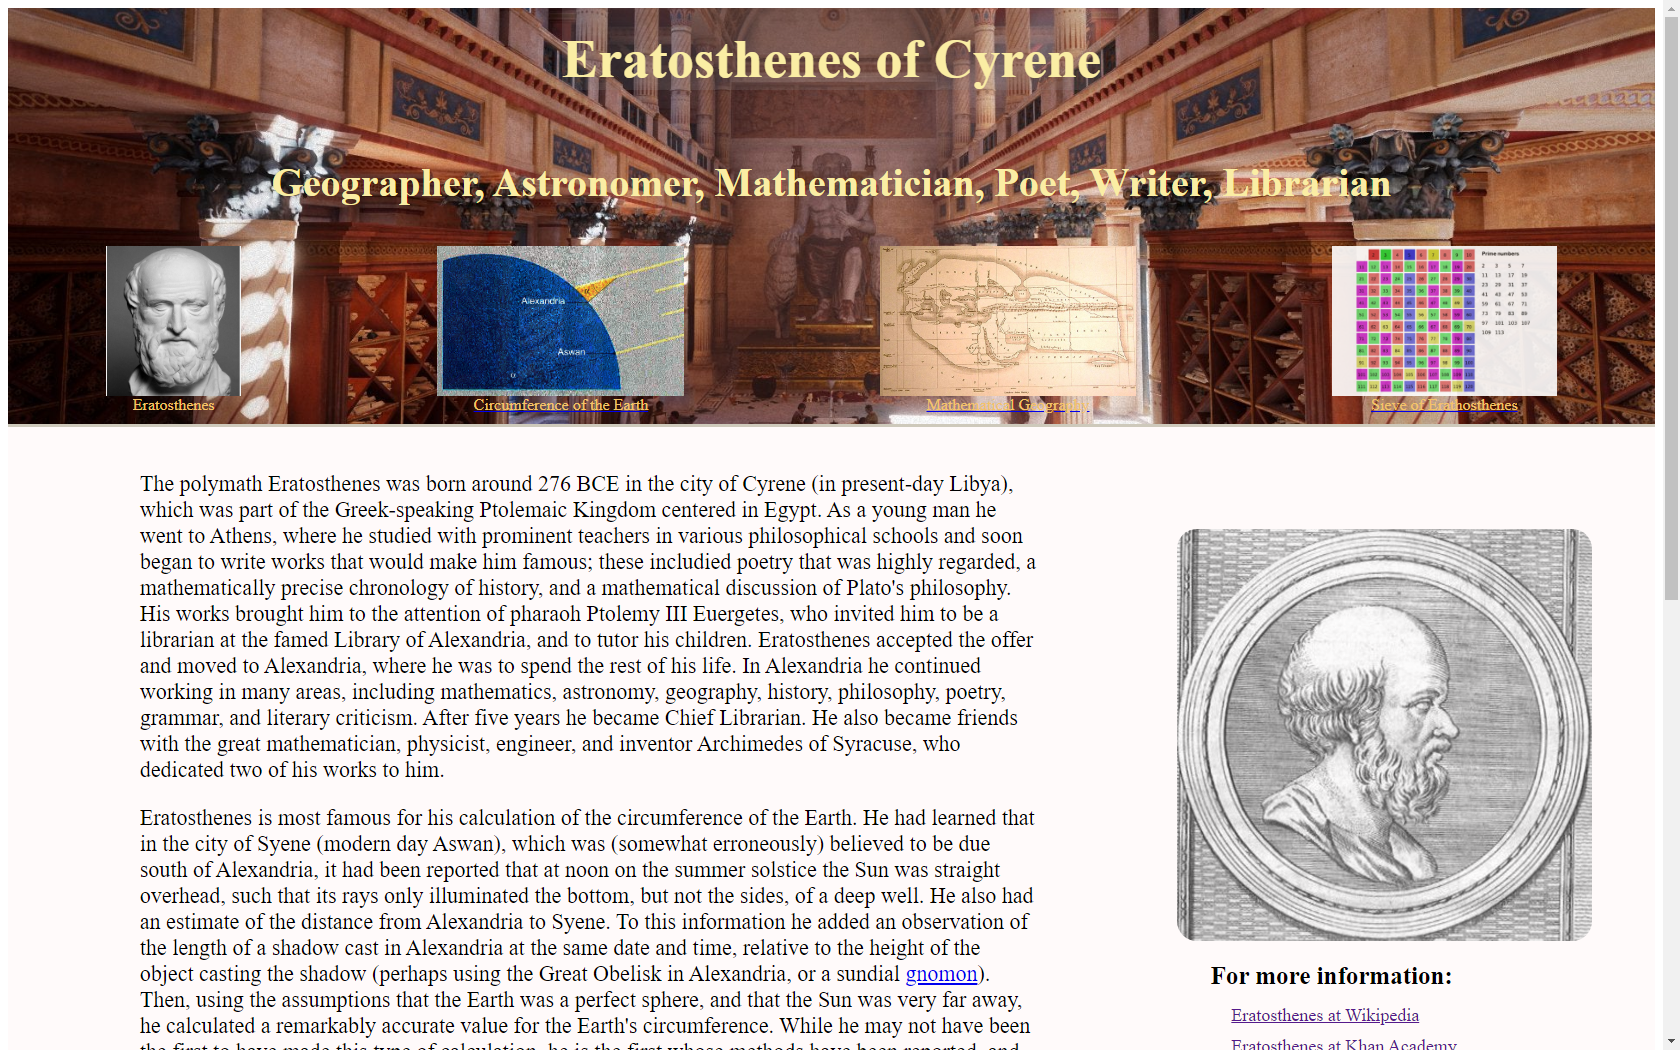
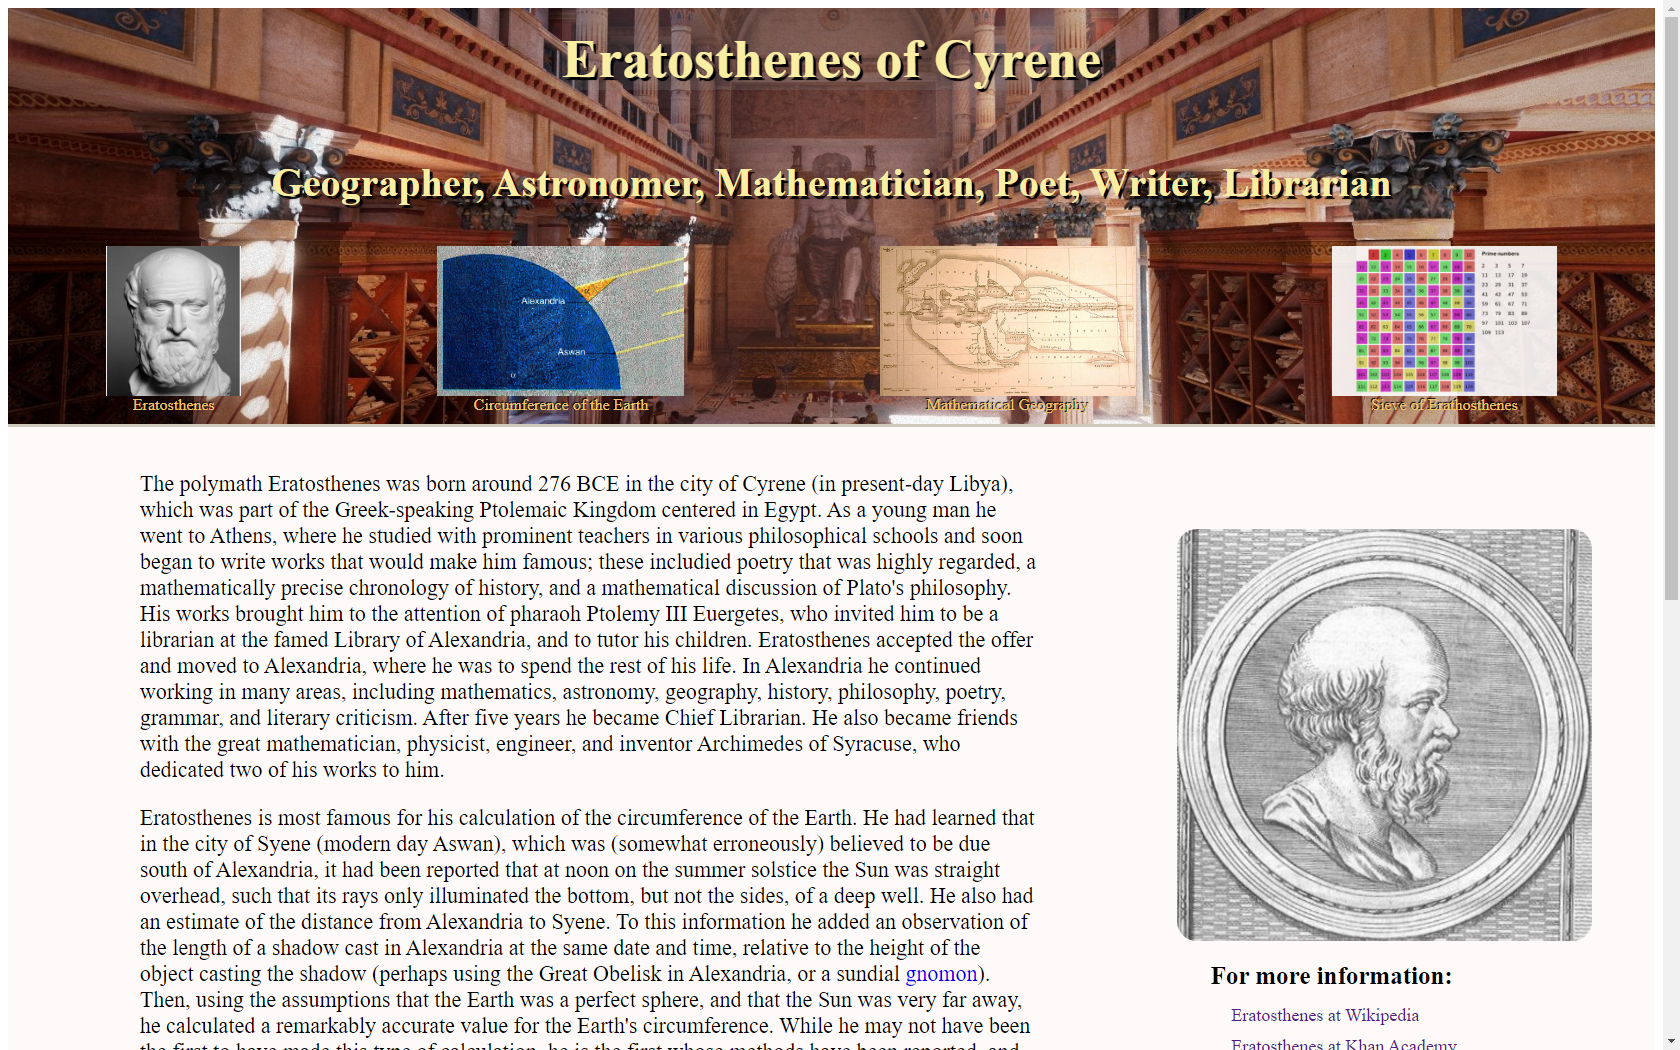
Add portfolio to portfolio, text shadow to Eratosthenes

diff --git a/temp.html b/temp.html
@@ -79,7 +79,7 @@
 
           <div class='project-container-desc-tile'>
             <div class="project__description">
-              <p class="project__description__content">"Fictional University" is a, well, fictional university site built in WordPress for the Brad Schmitt' tutorial "<a href='https://www.udemy.com/course/become-a-wordpress-developer-php-javascript/learn/lecture/22417904#overview'>Become a WordPress Developer: Unlocking Power with Code</a>",
+              <p class="project__description__content">"Fictional University" is a, well, fictional university site built in WordPress for the Udemy tutorial "<a href='https://www.udemy.com/course/become-a-wordpress-developer-php-javascript/learn/lecture/22417904#overview'>Become a WordPress Developer: Unlocking Power with Code</a>",
                 where visitors can create accounts and log in, view upcoming events and blog posts, create their own blog posts, view programs, professors, and campuses (with Google Maps interface). It is currently hosted at SiteGround, until late October
                 2020.
 
@@ -154,37 +154,29 @@
                 </figure>
               </a>
             </div>
+          </div>
+          <div class="section__footer">Plus this site, of course!</div>
+        </section>
 
-
-            <div class='project-tile' id='portfolio'>
-              <a href='./Portfolio.html' target='_blank' alt="Peter Roche's Portfolio">
-                <figure class='img-with-caption'>
-                  <img src='./img/Portfolio.png' alt='Peter Roche Portfolio' />
-                  <figcaption class='captions' style='--caption-font-size: 12px; --caption-small-font-size: 11px'>Peter Roche Portfolio</figcaption>
-                </figure>
-              </a>
-            </div>
+        <div id='contact'>
+          <h2>Contact Information</h2>
+          <h3>Offer me a job, or just say hi!</h3>
+          <div class="contact__info">
+            <p>Peter Roche</p>
+            <p>2916-C Avenida Alamosa</p>
+            <p>Santa Fe, NM 87507</p>
+            <p>505-474-2801</p>
+            <p>sunmtnsft@aol.com</p>
           </div>
 
-        </section>
-      </div>
-    </div>
+          <div id='contact__links'>
+            <a id='profile-link' href='https://github.com/settings/profile'>GitHub Profile</a>
+          </div>
+        </div>
 
-    <div id='contact'>
-      <h2>Contact Information</h2>
-      <h3>Offer me a job, or just say hi!</h3>
-      <div class="contact__info">
-        <p>Peter Roche</p>
-        <p>2916-C Avenida Alamosa</p>
-        <p>Santa Fe, NM 87507</p>
-        <p>505-474-2801</p>
-        <p>sunmtnsft@aol.com</p>
       </div>
 
-      <div id='contact__links'>
-        <a id='profile-link' href='https://github.com/settings/profile'>GitHub Profile</a>
-        <!-- <a id='profile-link ' href='https://www.freecodecamp.org/fcc31eefc91-eba7-43e5-a26c-c358ba796595 ' target='_blank '>FCC Profile</a> -->
-      </div>
     </div>
+
 
   </body>

diff --git a/eratosthenesTribute.css b/eratosthenesTribute.css
@@ -44,7 +44,7 @@ body {
 #banner h2 {
   color: rgb(250, 237, 164);
   /* color: rgb(255, 216, 25); */
-  text-shadow: 20px, 20px, 5px, #0000ff;
+  /* text-shadow: 20px, 20px, 5px, #0000ff; */
   /* this isn't doing anything */
 }
 
@@ -80,7 +80,7 @@ h1,
 h2 {
   text-align: center;
   color: black;
-  text-shadow: 2px, 2px, 4px, green;
+  /* text-shadow: 2px, 2px, 4px, green; */
   /* doesn't seem to do anything here either */
 }
 
@@ -101,10 +101,12 @@ li {
 #title h1 {
   font-size: 54px;
   margin-top: 0;
+  text-shadow: 3px 3px 1px black;
 }
 
 #title h2 {
   font-size: 40px;
+  text-shadow: 3px 3px 1px black;
 }
 
 #img-div {
@@ -157,10 +159,14 @@ img {
   width: 100%;
   text-align: center;
   color: #f3c369;
+  /* font-weight: bold; */
+  text-shadow: -1px -1px 1px #000;
 }
 
 a {
   position: relative;
+  text-decoration: none;
+  /* new */
 }
 
 a:after {

diff --git a/portfolio.css b/portfolio.css
@@ -89,21 +89,6 @@ a:active {
   text-shadow: 2px 2px #fff
 }
 
-
-/* maybe move background image to Contact section */
-
-
-/*#welcome-section::after { 
-content: '';
-background-image: url('https://github.com/paroche/FCC/blob/master/Fox-Logo-Background.jpg?raw=true'); 
-opacity: 0.15;
-background-position: left;
-background-size: 30em;
-z-index: 0;
-background-repeat: space;
-position: absolute; top: var(--nav-header-height); bottom: 0; left: 0; right: 0;
-} */
-
 .bg-container {
   /*position: relative; /* */
   overflow: hidden;
